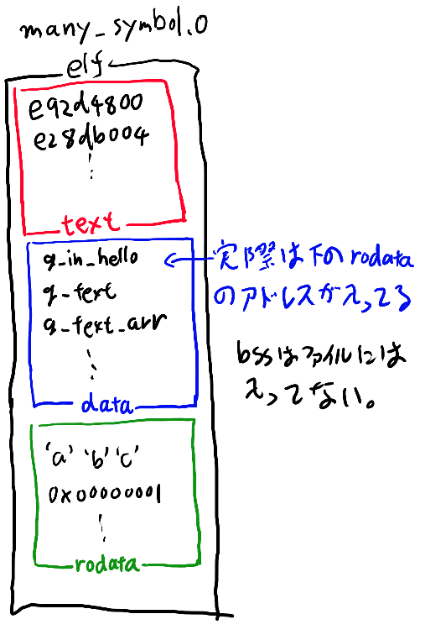
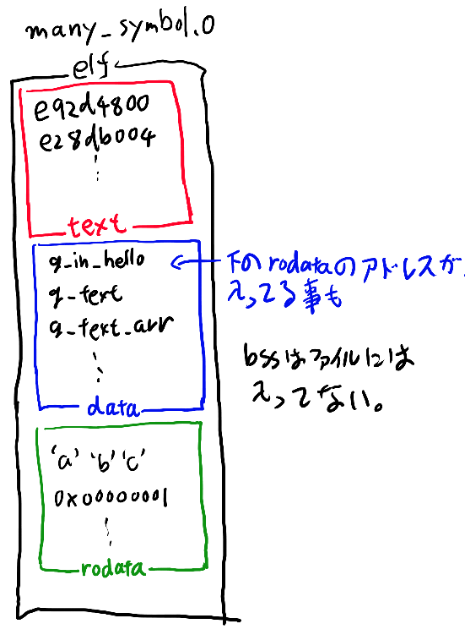
Mr Hyde was here …

Changed region(s): [[0.0, 0.0, 0.9674, 1.0], [0.8465, 0.625, 0.8767, 0.6562], [0.2116, 0.5625, 0.2419, 0.5938]]

diff --git a/casm_link_load.md b/casm_link_load.md
@@ -719,6 +719,12 @@ nm a.out
 
 ![objectファイル内のレイアウト](object_layout.png)
 
+text領域でグローバル変数を参照する時は、data領域の先頭から何番目か、という情報だけでまずは書いておく。
+data領域では配列などはそこに実際の値を埋め込んでおくが、ポインタなどの場合は実際のデータはrodataに書いておいて、そこへのアドレスが入っている場合もある。
+
+data領域もrodataも、先頭から何番目か、というインデックスだけで参照する（つまりdataもrodataも0番にロードされるかのようなコードになっている）。
+
+
 ### 参考リンク
 
 nmのシンボルの種類は公式ドキュメントを見ると書いてあります。[https://sourceware.org/binutils/docs/binutils/nm.html](https://sourceware.org/binutils/docs/binutils/nm.html)
